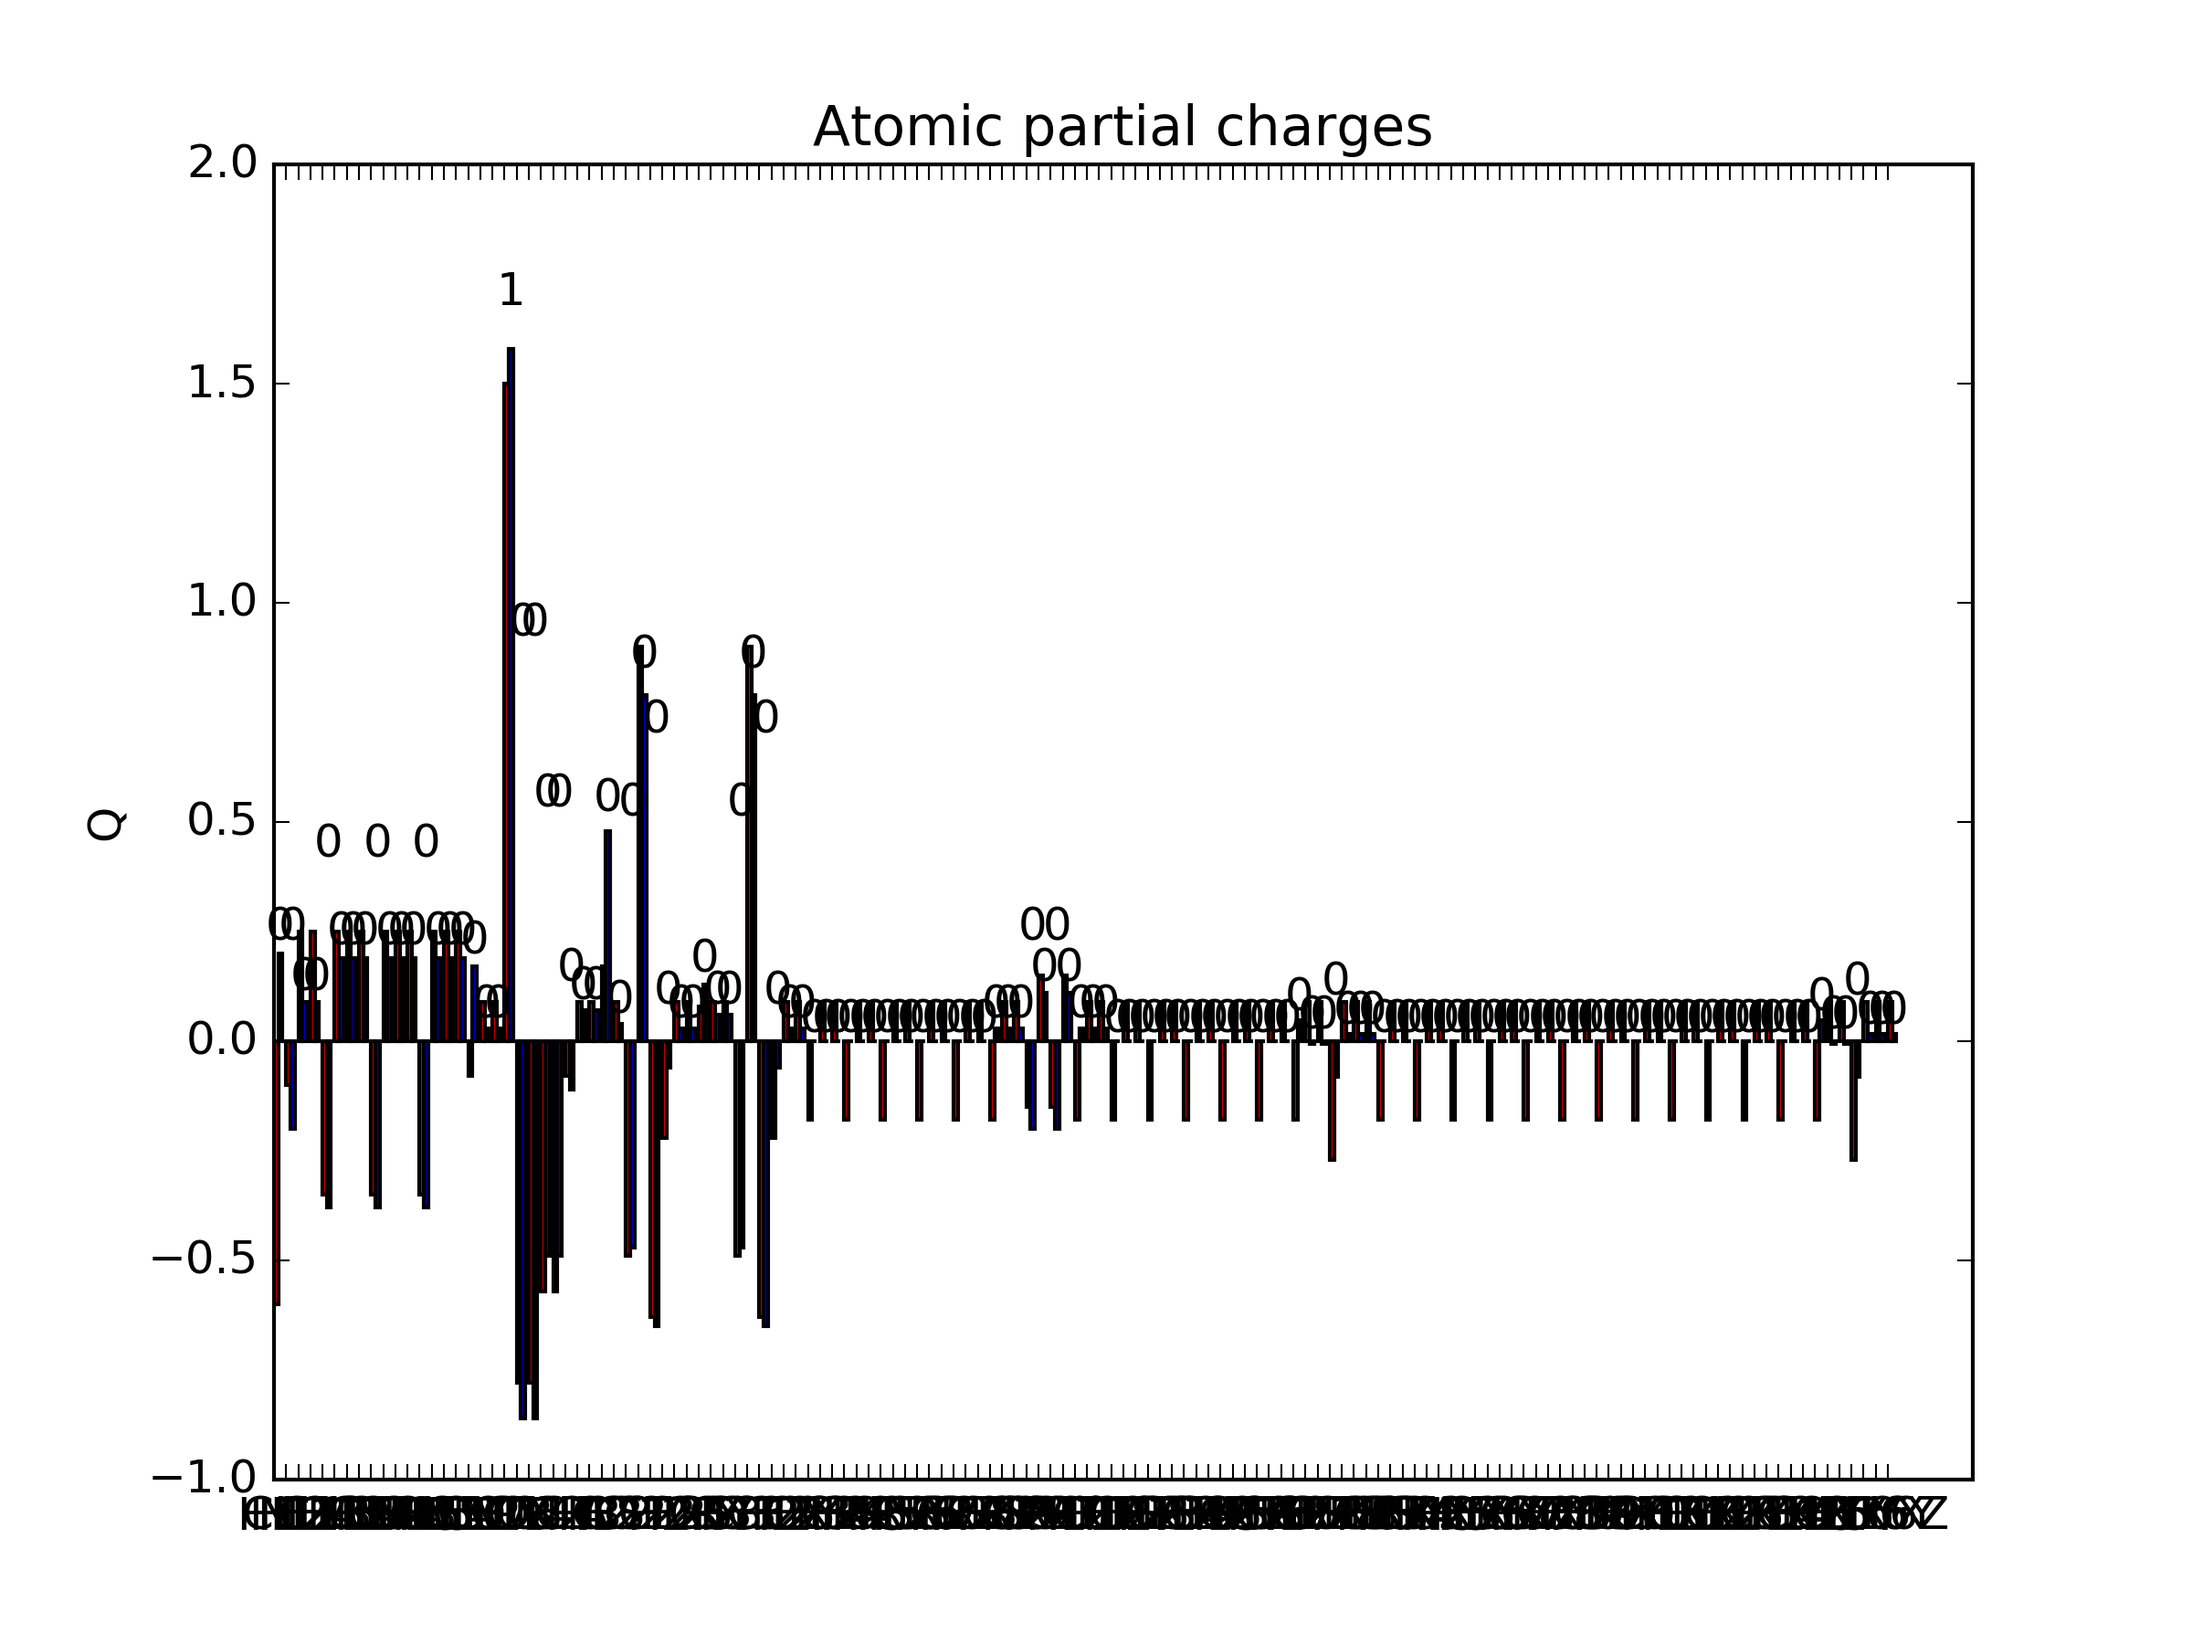
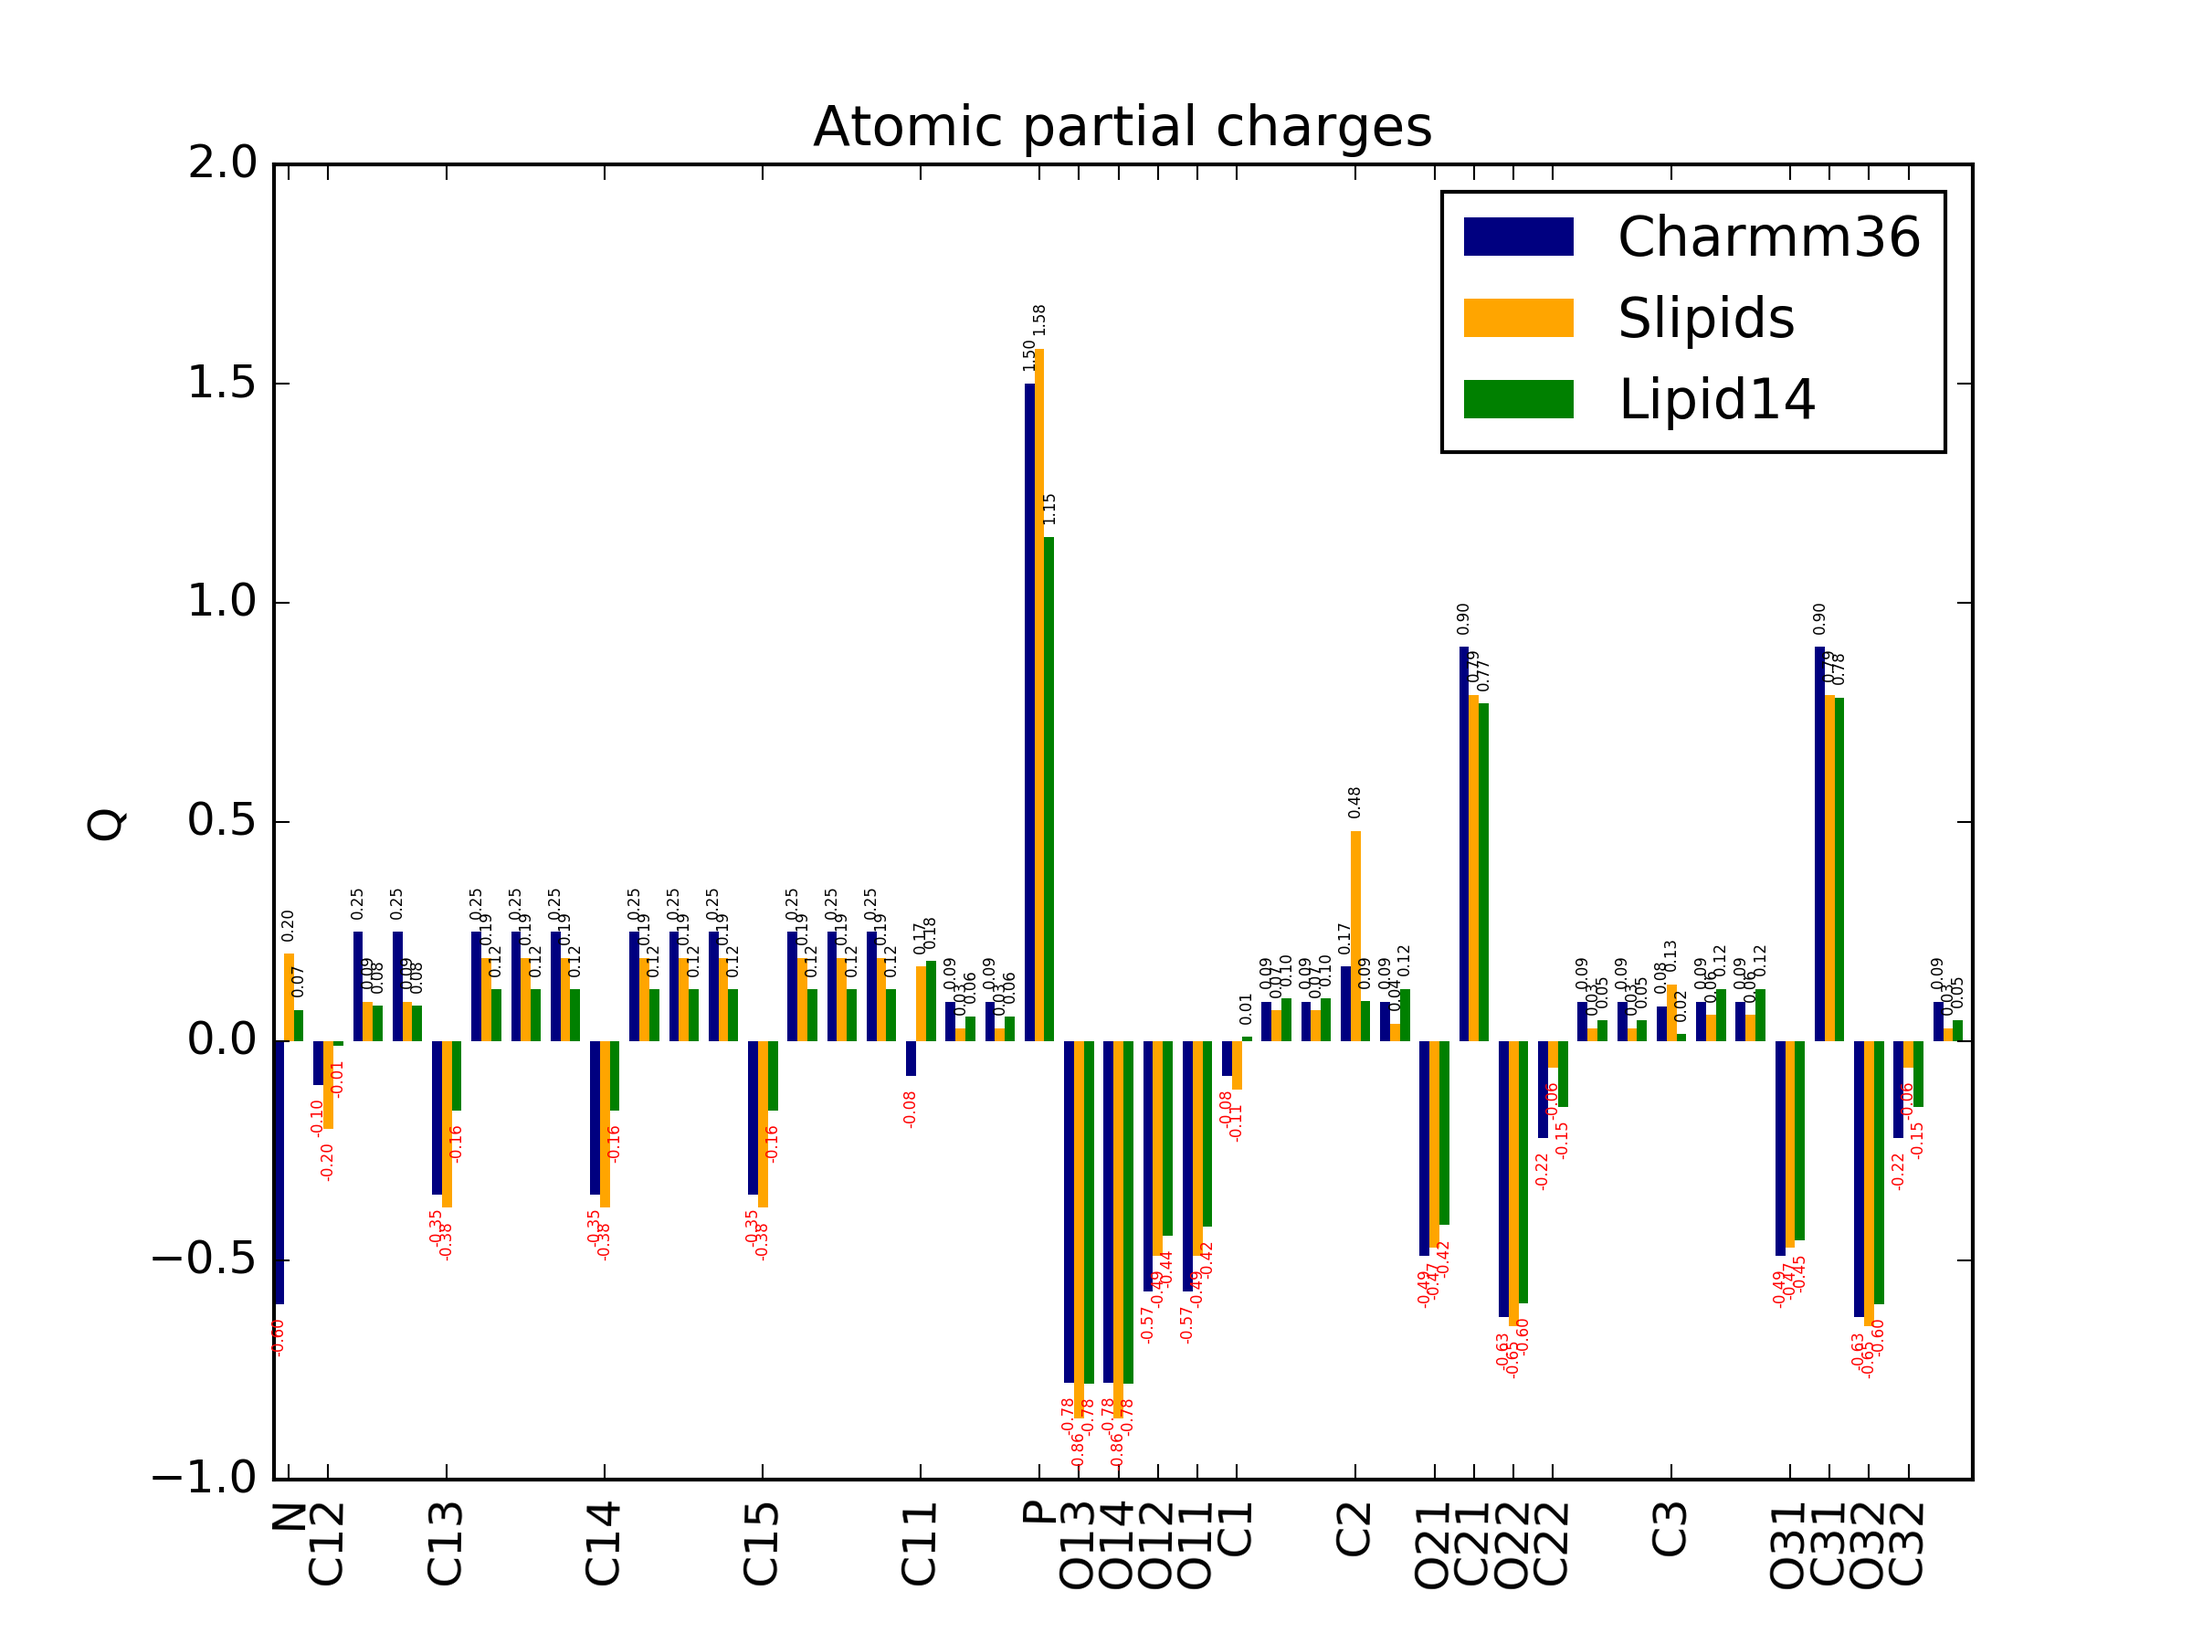
Improved the partial-charges plotting script so that it plot bars and their size.

Changed region(s): [[0.0938, 0.2178, 0.9062, 0.9644], [0.6562, 0.0933, 0.875, 0.28]]

diff --git a/scripts/atomic_partial_charges_compar_plot_l14_slipids_C36/molecule_mapper_plots_charges.py b/scripts/atomic_partial_charges_compar_plot_l14_slipids_C36/molecule_mapper_plots_charges.py
@@ -1,9 +1,15 @@
 # -*- coding: utf-8 -*-
 """
-script for reordering atoms in molecules
-according to the names of a reference molecule
+reorders atoms in molecules
+according to the names in a reference molecule
 
-Originally meant to reorder POPC atoms from CHARMM-GUI to Slipids ordering
+and prints out their partial charges in plots.
+
+IN: itp files (hard-coded in)
+
+Originally developed to be used with NMRlipids project 6
+by
+J. Melcr
 """
 
 import pmx
@@ -83,65 +89,89 @@ if __name__ == '__main__':
             ax_x_labels.append(name)
 
 #%%
+    # BAR PLOT 1
+    #############
+            
+    def autolabel(rects, i_max=None, font_size=4, q_label_offset=0.03):
+        """
+        Attach a text label above/below each bar displaying its height
+        This implementation works with a GLOBAL variable ax -- QUICK&DIRTY HACK!!
+        """
+        if i_max == None:
+            i_max = len(rects)
+        for i,rect in enumerate(rects):
+            if i<i_max :
+                height = rect.get_height()
+                if rect.get_y() >= 0:
+                    ax.text(rect.get_x() + rect.get_width()/2., rect.get_y() + height + q_label_offset,
+                        '%2.2f' % height,
+                        ha='center', va='bottom',
+                        fontsize=font_size,
+                        rotation=90)
+                else:
+                    ax.text(rect.get_x() + rect.get_width()/2., rect.get_y() - q_label_offset,
+                        '-%2.2f' % height,
+                        ha='center', va='top',
+                        fontsize=font_size,
+                        color='red',
+                        rotation=90)
+            else:
+                break
 
-    plt.xticks(ax_x_label_pos, ax_x_labels, rotation=89)
-    plt.plot(mol_a_sorted_atoms_q, label="Lipid14")
-    plt.plot(mol_b_sorted_atoms_q, label="Slipids")
-    plt.plot(mol_c_sorted_atoms_q, label="Charmm36")
-    plt.legend()
-    plt.ylabel("Q")
-    plt.savefig("slipids_lipid14_charmm_charges_aligned.png", dpi=300)
-    plt.show()
 
-#%%
-    plt.xticks(ax_x_label_pos, ax_x_labels, rotation=89)
-    plt.xlim([0,45])
-    plt.plot(mol_a_sorted_atoms_q, label="Lipid14")
-    plt.plot(mol_b_sorted_atoms_q, label="Slipids")
-    plt.plot(mol_c_sorted_atoms_q, label="Charmm36")
-    plt.legend()
-    plt.ylabel("Q")
-    plt.savefig("slipids_lipid14_charmm_charges_aligned_subplot.png", dpi=300)
-    plt.show()
-
-#%%
-    plt.xticks(ax_x_label_pos, ax_x_labels, rotation=89)
-    plt.xlim([0,45])
-    plt.plot(np.abs(mol_a_sorted_atoms_q), label="Lipid14")
-    plt.plot(np.abs(mol_b_sorted_atoms_q), label="Slipids")
-    plt.plot(np.abs(mol_c_sorted_atoms_q), label="Charmm36")
-    plt.legend()
-    plt.ylabel("|Q|")
-    plt.savefig("slipids_lipid14_charmm_charges_aligned_subplot_abs.png", dpi=300)
-    plt.show()
-
-#%%
-    bar_width = 0.35
+    bar_width = 0.25
 
     fig, ax = plt.subplots()
-    rects1 = ax.bar(range(len(mol_c_sorted_atoms_names)), mol_c_sorted_atoms_q, bar_width, color='r')
-    rects1 = ax.bar(np.array(range(len(mol_c_sorted_atoms_names)))+bar_width, mol_b_sorted_atoms_q, bar_width, color='blue')
+
+    max_atom_index = 43
 
     # add some text for labels, title and axes ticks
     ax.set_ylabel('Q')
     ax.set_title('Atomic partial charges')
-    ax.set_xticks(range(len(mol_c_sorted_atoms_names)))
-    ax.set_xticklabels(mol_c_sorted_atoms_names)
+    ax.set_xticks(np.array(ax_x_label_pos)+0.375)
+    ax.set_xticklabels(ax_x_labels, rotation=89)
+    ax.set_xlim(right=max_atom_index)  # Includes Headgroup and glycerol with carbonyls
 
-    #ax.legend((rects1[0], rects2[0]), ('Men', 'Women'))
+    # plot bars
+    rects1 = ax.bar(range(len(mol_c_sorted_atoms_names)), mol_c_sorted_atoms_q, bar_width, color='navy', linewidth=0, label="Charmm36")
+    rects2 = ax.bar(np.array(range(len(mol_c_sorted_atoms_names)))+bar_width, mol_b_sorted_atoms_q, bar_width, color='orange', linewidth=0, label="Slipids")
+    rects3 = ax.bar(np.array(range(len(mol_c_sorted_atoms_names)))+2*bar_width, mol_a_sorted_atoms_q, bar_width, color='green', linewidth=0, label="Lipid14")
 
+    # assign labels
+    autolabel(rects1, i_max=max_atom_index)
+    autolabel(rects2, i_max=max_atom_index)
+    autolabel(rects3, i_max=max_atom_index)
 
-    def autolabel(rects):
-        """
-        Attach a text label above each bar displaying its height
-        """
-        for rect in rects:
-            height = rect.get_height()
-            ax.text(rect.get_x() + rect.get_width()/2., 1.05*height,
-                    '%d' % int(height),
-                    ha='center', va='bottom')
-
-    autolabel(rects1)
-    #autolabel(rects2)
+    ax.legend()
     plt.savefig("slipids_lipid14_charmm_charges_aligned_bars.png", dpi=300)
-    plt.show()
+
+
+#%%
+    # BAR PLOT 2
+    #############
+            
+    fig, ax = plt.subplots()
+
+    # add some text for labels, title and axes ticks
+    ax.set_ylabel('Q')
+    ax.set_title('Atomic partial charges')
+    ax.set_xticks(np.array(ax_x_label_pos)+0.375)
+    ax.set_xticklabels(ax_x_labels, rotation=89)
+
+    # plot bars
+    rects1 = ax.bar(range(len(mol_c_sorted_atoms_names)), mol_c_sorted_atoms_q, bar_width, color='navy', linewidth=0, label="Charmm36")
+    rects2 = ax.bar(np.array(range(len(mol_c_sorted_atoms_names)))+bar_width, mol_b_sorted_atoms_q, bar_width, color='orange', linewidth=0, label="Slipids")
+    rects3 = ax.bar(np.array(range(len(mol_c_sorted_atoms_names)))+2*bar_width, mol_a_sorted_atoms_q, bar_width, color='green', linewidth=0, label="Lipid14")
+
+    # assign labels
+    autolabel(rects1)
+    autolabel(rects2)
+    autolabel(rects3)
+
+    ax.legend()
+    plt.savefig("slipids_lipid14_charmm_charges_aligned_bars_all-atoms.png", dpi=300)
+
+
+
+#%%
+
